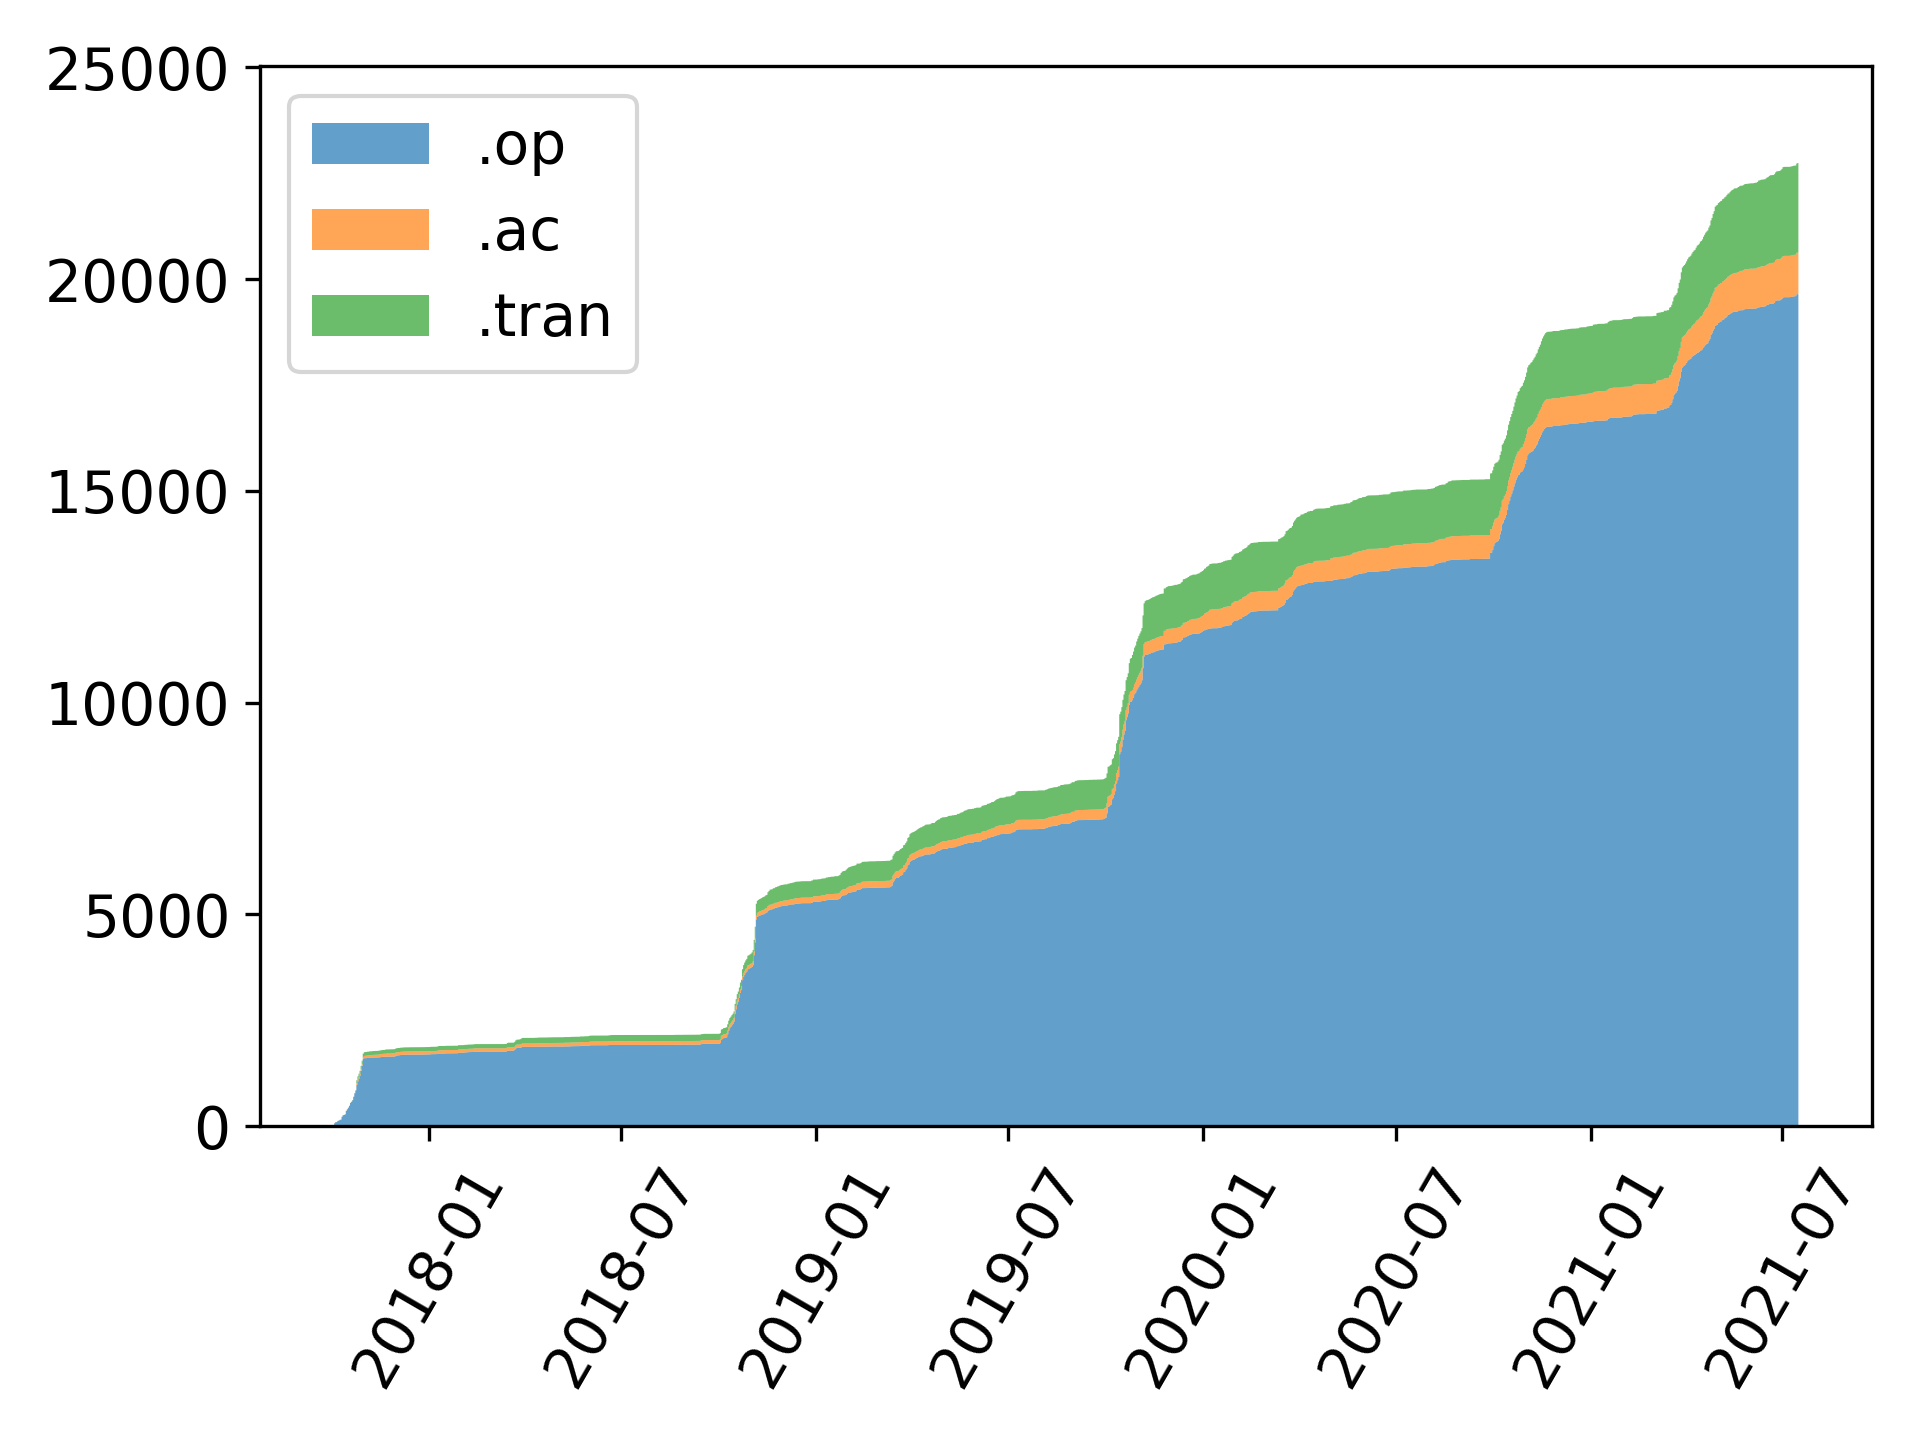
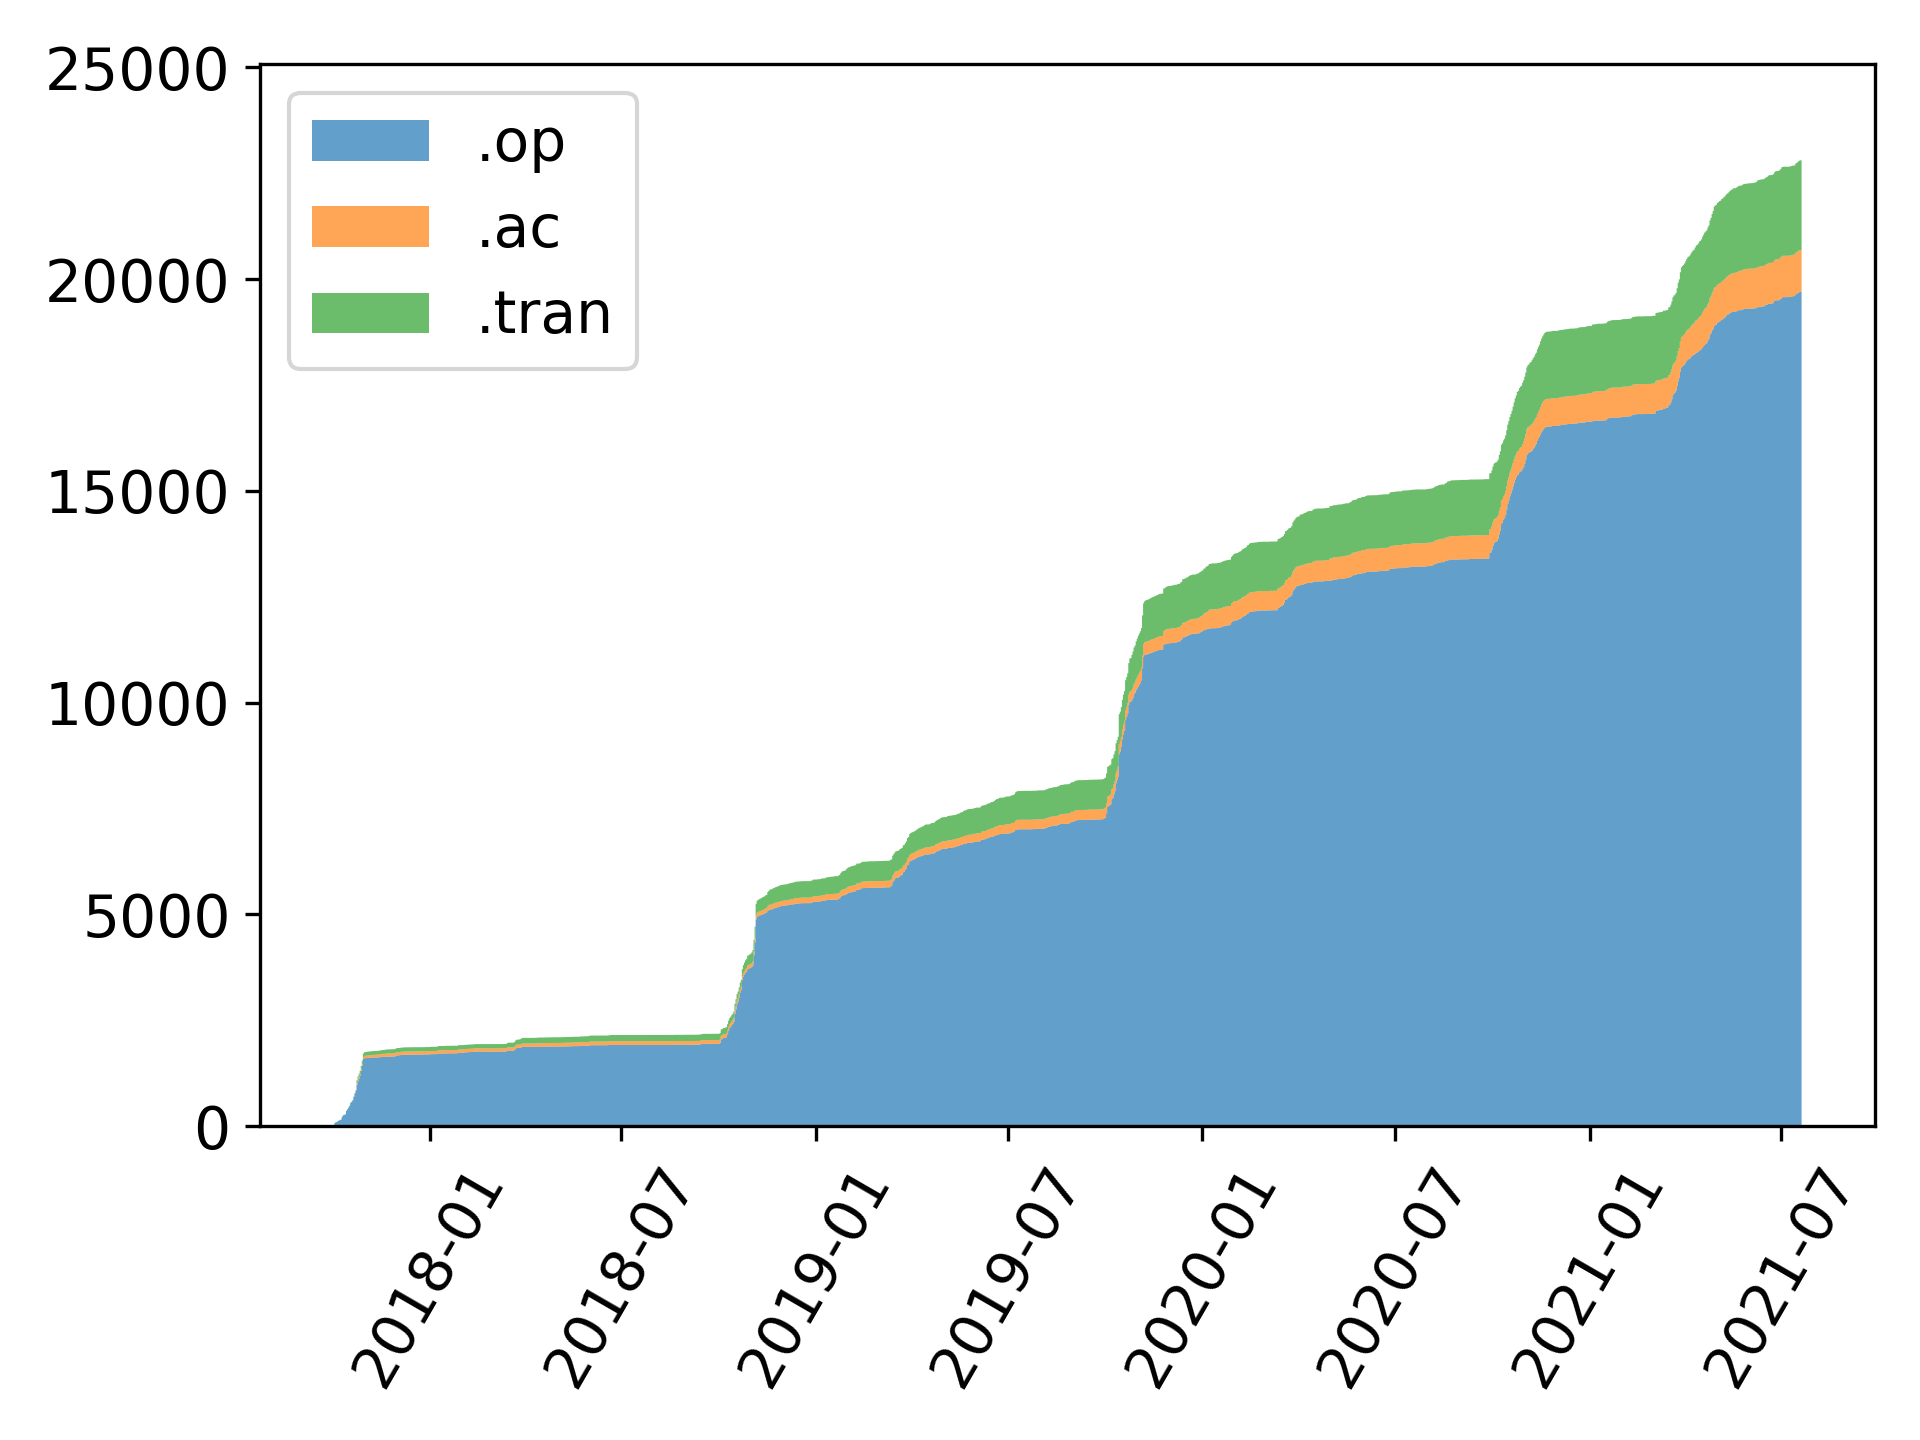
Update July, 20 2021

diff --git a/README.md b/README.md
@@ -6,7 +6,7 @@
 
 
 ### Analysis performed
-Currently, SpicePyBot has been used by 1735 users for a total of 22984 analysis. Fig. 1 shows the percentages of the different analysis (`.op` = operating point, `.tran` = transient, `.ac` = alternatig current).
+Currently, SpicePyBot has been used by 1732 users for a total of 23041 analysis. Fig. 1 shows the percentages of the different analysis (`.op` = operating point, `.tran` = transient, `.ac` = alternatig current).
 
 <p align="center">
 <img src="./img/fig4_Analysis_percentage.png" width="450">
